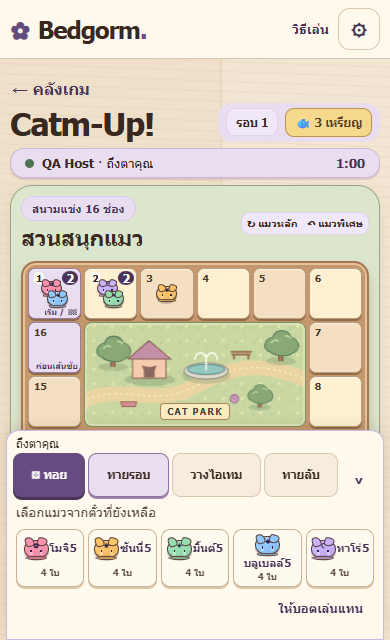
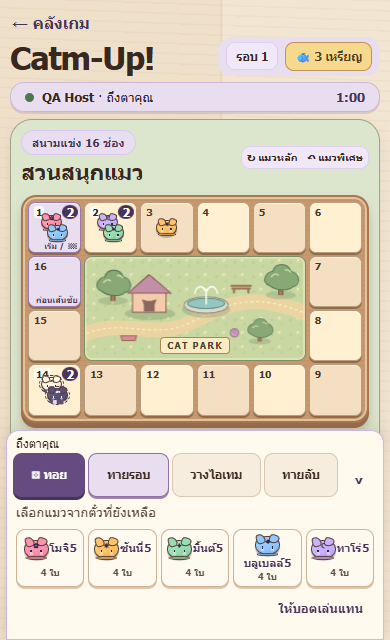
Keep the track visible when mobile action details open

diff --git a/docs/phase3-ux/README.md b/docs/phase3-ux/README.md
@@ -15,7 +15,7 @@
 
 - การ์ดผลตาบอตอ่านบันทึกที่เปิดเผยอยู่แล้วและแสดงทีละรายการห่างกัน 1.8 วินาที บันทึกแต่ละ action ระบุลำดับตาและที่นั่งเพื่อให้แสดงครบเมื่อ polling ได้หลายตาพร้อมกัน การ์ดอยู่แยกจากสถานะตาปัจจุบันและไม่หน่วงการส่งคำสั่งหรือตัวจับเวลา
 - หมาก 2–3 ตัวเยื้องกัน หมาก 4 ตัวขึ้นไปวางสองคอลัมน์พร้อมเลขลำดับ แตะช่องเพื่ออ่านชื่อ สี และลำดับจากบนลงล่าง แมวเดินย้อนมีขอบประและสัญลักษณ์ ↶
-- มือถือมีแถบควบคุมติดขอบล่างพร้อมปุ่มทอยและหมวดอื่น เปิดตัวเลือกเท่าที่ต้องใช้ ย่อด้วยปุ่มในแถบหรือ Escape และย่อหลังส่ง action แถบแสดงสถานะรอตา กำลังส่ง และข้อผิดพลาดจากเซิร์ฟเวอร์
+- มือถือมีแถบควบคุมติดขอบล่างพร้อมปุ่มทอยและหมวดอื่น เมื่อขยายแล้วขอบแถบชนกระดาน หน้าเกมจะเลื่อนให้กระดานพ้นแถบถ้ามีพื้นที่พอ ย่อด้วยปุ่มในแถบหรือ Escape และย่อหลังส่ง action แถบแสดงสถานะรอตา กำลังส่ง และข้อผิดพลาดจากเซิร์ฟเวอร์
 
 ## ตรวจรับบน Staging
 
